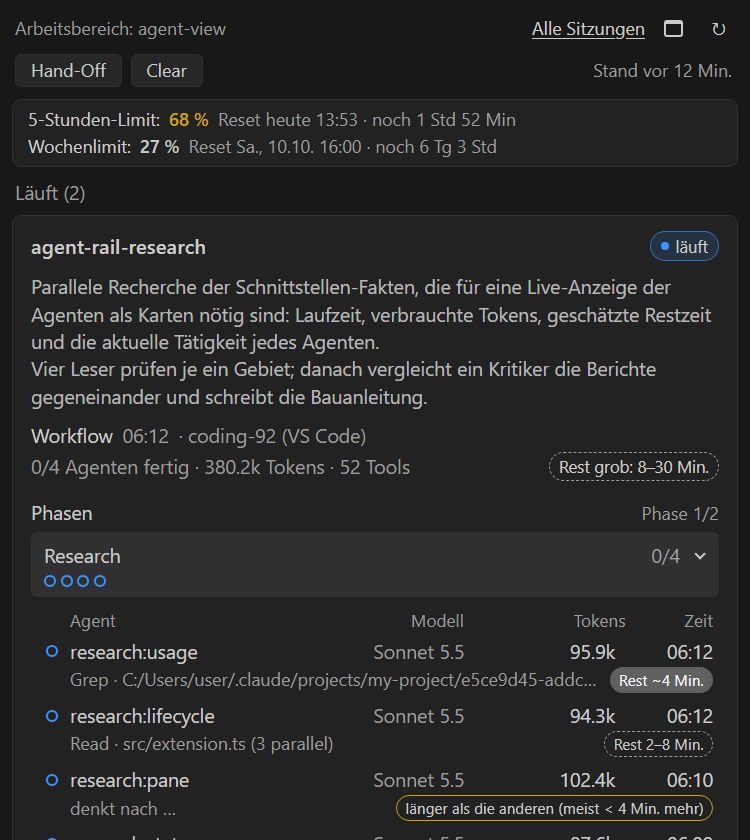
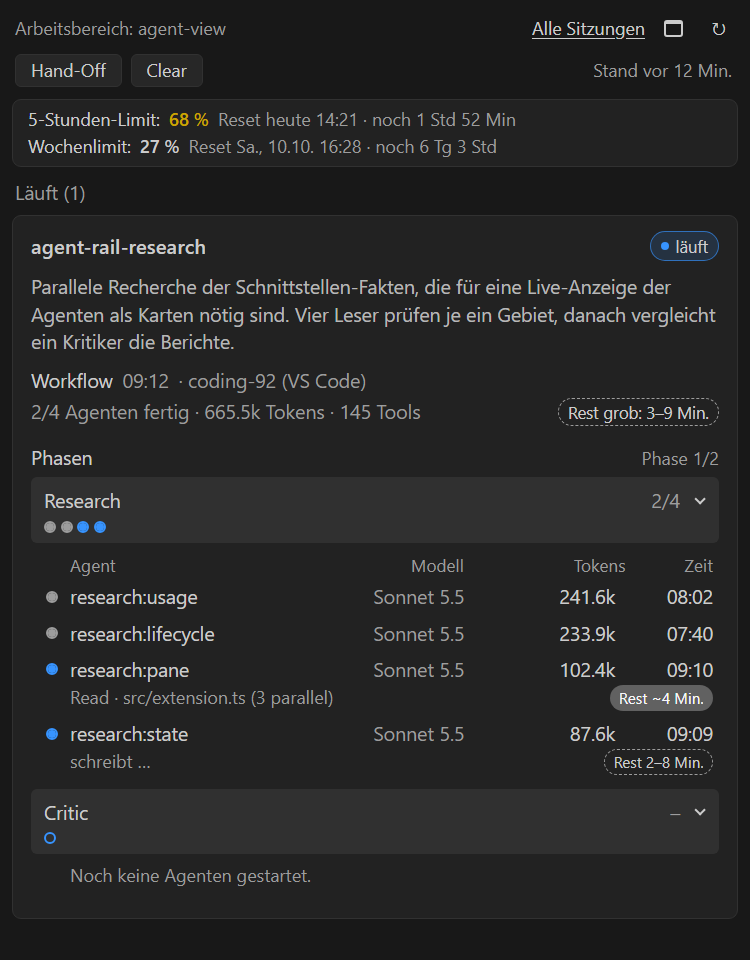
Unify status dots (done grey, running blue, not yet run hollow blue), new README screenshot

Changed region(s): [[0.0, 0.0, 0.9813, 1.0], [0.7053, 0.0, 0.9813, 0.0929]]

diff --git a/media/main.css b/media/main.css
@@ -2,7 +2,6 @@
    extra code. Unlayered rules beat VS Code's own webview defaults (they sit in @layer vscode-default). */
 :root {
   --av-accent: var(--vscode-charts-blue);
-  --av-ok: var(--vscode-charts-green);
   --av-err: var(--vscode-charts-red);
   --av-warn: var(--vscode-charts-yellow);
   --av-muted: var(--vscode-descriptionForeground);
@@ -192,7 +191,8 @@ button:focus-visible { outline: 1px solid var(--vscode-focusBorder); outline-off
 .pill::before { content: ""; flex: none; width: 0.5em; height: 0.5em; border-radius: 50%; background: var(--c); }
 .pill-run { --c: var(--av-accent); }
 .pill-wait { --c: var(--av-accent); }
-.pill-ok { --c: var(--av-ok); }
+.pill-ok { --c: var(--av-muted); }                  /* finished = grey, like the dots */
+.pill-mute::before { background: transparent; border: 1.5px solid var(--c); box-sizing: border-box; }   /* interrupted/stopped: hollow, like the dots */
 .pill-err { --c: var(--av-err); }
 .pill-warn { --c: var(--av-warn); }
 body.vscode-high-contrast .pill,
@@ -258,7 +258,9 @@ body.vscode-high-contrast-light .phase-head { border-color: var(--vscode-contras
 .dots:empty { display: none; }
 .phase-body { padding: 4px 0 2px 6px; }
 
-/* status dot: also the first column of every agent row (SPEC 5.3) */
+/* status dot: also the first column of every agent row (SPEC 5.3). One colour language for the rows and the phase header:
+   done = filled grey, running/waiting = filled blue (pulsing while it runs), not yet run = hollow blue,
+   failed = filled red, interrupted/stopped = hollow grey. */
 .dot {
   flex: none;
   width: 8px;
@@ -266,12 +268,12 @@ body.vscode-high-contrast-light .phase-head { border-color: var(--vscode-contras
   border-radius: 50%;
   border: 1.5px solid var(--av-muted);
   background: transparent;
+  background-clip: padding-box;   /* a translucent theme colour must not double up under the border */
 }
-.dot[data-s="done"] { border-color: var(--av-ok); background: var(--av-ok); }
-.dot[data-s="failed"] { border-color: var(--av-err); background: var(--av-err); }
-.dot[data-s="running"], .dot[data-s="waiting"] { border-color: var(--av-accent); }
-.dot[data-s="pending"] { border-style: dotted; opacity: 0.7; }
-.dots .dot[data-s="done"] { border-color: var(--av-accent); background: var(--av-accent); }
+.dot[data-s="done"] { border-color: var(--av-muted); background-color: var(--av-muted); }
+.dot[data-s="failed"] { border-color: var(--av-err); background-color: var(--av-err); }
+.dot[data-s="running"], .dot[data-s="waiting"] { border-color: var(--av-accent); background-color: var(--av-accent); }
+.dot[data-s="pending"] { border-color: var(--av-accent); }
 @media (prefers-reduced-motion: no-preference) {
   body:not(.vscode-reduce-motion) .dot[data-s="running"] { animation: av-pulse 1.6s ease-in-out infinite; }
 }

diff --git a/media/main.js b/media/main.js
@@ -137,6 +137,9 @@
 
   const KNOWN_STATES = ['running', 'waiting', 'done', 'failed', 'interrupted', 'stopped'];
   const dotState = (a) => (isObj(a) && KNOWN_STATES.includes(a.state) ? a.state : 'pending');
+  // Dots in a phase header: one per started agent. A phase without any agent has not run yet and gets one hollow "not yet run" dot
+  // (the planned number of agents is not recorded in the files, so a whole unstarted phase is the only place where this can be shown).
+  const phaseDotStates = (ph) => (isObj(ph) && arr(ph.agents).length ? arr(ph.agents).map(dotState) : ['pending']);
 
   const isQuiet = (a) => isLive(a.state) && num(a.quietSec) > QUIET_SEC;
 
@@ -657,9 +660,10 @@
       setText(p.count, ph.state === 'pending' ? T.dash : ph.done + '/' + ph.total);
       setAttr(p.head, 'aria-expanded', String(open));
       setAttr(p.head, 'aria-label', name + (ph.state === 'pending' ? '' : ', ' + ph.done + ' ' + T.of + ' ' + ph.total + ' ' + T.phaseDone + (ph.failed ? ', ' + ph.failed + ' ' + T.failedCount : '')));
-      while (p.dots.children.length < ph.agents.length) p.dots.append(h('span', 'dot'));
-      while (p.dots.children.length > ph.agents.length) p.dots.lastChild.remove();
-      ph.agents.forEach((a, i) => setAttr(p.dots.children[i], 'data-s', dotState(a)));
+      const dotStates = phaseDotStates(ph);
+      while (p.dots.children.length < dotStates.length) p.dots.append(h('span', 'dot'));
+      while (p.dots.children.length > dotStates.length) p.dots.lastChild.remove();
+      dotStates.forEach((s, i) => setAttr(p.dots.children[i], 'data-s', s));
       setHidden(p.body, !open);
       if (!open) return; // collapsed rows are brought up to date when the phase is opened (re-render on toggle)
       const keys = uniqueKeys(ph.agents.map((a) => a.id));
@@ -904,7 +908,7 @@
   if (typeof module !== 'undefined' && module.exports) {
     module.exports = {
       T, QUIET_SEC, fmtTokens, fmtDur, prettyModel, modelLabel, plural, clip, computeSkew, elapsedMs, elapsedText,
-      failureText, activityText, dotState, pillForAgent, pillForRun, runQuietSec, stateChip, etaView, phaseSummary,
+      failureText, activityText, dotState, phaseDotStates, pillForAgent, pillForRun, runQuietSec, stateChip, etaView, phaseSummary,
       phaseDefaultOpen, phaseNote, wfStatText, agentStatText, sessionText, uniqueKeys, lisIndices, planReconcile,
       normalizeState, normalizeUi, isOpen, setOpen, collectIds, pruneUi,
       USAGE_STALE_MS, normalizeUsage, usageLabel, fmtUntil, fmtClock, usageRowView, usageAge,

diff --git a/test/webview.test.js b/test/webview.test.js
@@ -332,6 +332,37 @@ test('phase summary, default expansion and dot states', () => {
   assert.equal(W.dotState(null), 'pending');
 });
 
+test('phase header dots: one per started agent, one hollow "not yet run" dot for a phase without agents', () => {
+  assert.deepEqual(W.phaseDotStates({ agents: [{ state: 'done' }, { state: 'running' }, { state: 'failed' }] }), ['done', 'running', 'failed']);
+  assert.deepEqual(W.phaseDotStates({ agents: [] }), ['pending']);
+  assert.deepEqual(W.phaseDotStates({}), ['pending']);
+  assert.deepEqual(W.phaseDotStates(null), ['pending']);
+  assert.match(JS, /dotStates\.forEach\(\(s, i\) => setAttr\(p\.dots\.children\[i\], 'data-s', s\)\)/);
+});
+
+test('status dots: done = filled grey, running = filled blue, not yet run = hollow blue, identical in the rows and in the phase header', () => {
+  const rule = (sel) => {
+    const m = CSS.match(new RegExp(sel.replace(/[.*+?^${}()|[\]\\]/g, '\\$&') + '\\s*\\{([^}]*)\\}'));
+    assert.ok(m, 'CSS rule ' + sel);
+    return m[1];
+  };
+  const done = rule('.dot[data-s="done"]');
+  assert.match(done, /border-color:\s*var\(--av-muted\)/);
+  assert.match(done, /background-color:\s*var\(--av-muted\)/);
+  const run = rule('.dot[data-s="running"], .dot[data-s="waiting"]');
+  assert.match(run, /border-color:\s*var\(--av-accent\)/);
+  assert.match(run, /background-color:\s*var\(--av-accent\)/);
+  const pending = rule('.dot[data-s="pending"]');
+  assert.match(pending, /border-color:\s*var\(--av-accent\)/);
+  assert.ok(!/background|dotted|opacity/.test(pending), 'hollow, solid and fully opaque');
+  assert.match(rule('.dot[data-s="failed"]'), /background-color:\s*var\(--av-err\)/);
+  assert.ok(!/\.dots\s+\.dot\[/.test(CSS), 'the phase header uses the same colours as the rows');
+  assert.match(rule('.dot'), /background-clip:\s*padding-box/, 'a translucent theme colour does not double up under the border');
+  assert.ok(!/--av-ok|charts-green/.test(CSS), 'no green for finished work');
+  assert.match(CSS, /\.pill-ok\s*\{\s*--c:\s*var\(--av-muted\)/);
+  assert.match(CSS, /\.pill-mute::before\s*\{[^}]*background:\s*transparent/);
+});
+
 test('stat lines: plural, running fraction, cached agents', () => {
   const wf = (o) => Object.assign({ status: 'completed', agentsTotal: 4, agentsDone: 4, tokens: 380234, toolUses: 52 }, o);
   assert.equal(W.wfStatText(wf()), '4 Agenten · 380.2k Tokens · 52 Tools');

diff --git a/tools/render-harness/gen-fixtures.js b/tools/render-harness/gen-fixtures.js
@@ -276,11 +276,30 @@ function manyCards() {
   return state({ running, recent, scope: 'all', scopeLabel: 'Alle Projekte' });
 }
 
+// ---- readme: the picture in README.md (one run with finished, running and not yet started parts) ---------------------------
+function readmeView() {
+  const w = workflow({
+    runId: 'wf_5281790c-ce8', name: 'agent-rail-research',
+    description: 'Parallele Recherche der Schnittstellen-Fakten, die für eine Live-Anzeige der Agenten als Karten nötig sind. Vier Leser prüfen je ein Gebiet, danach vergleicht ein Kritiker die Berichte.',
+    status: 'running', startedAt: NOW - (9 * MIN + 12 * SEC),
+    eta: eta('range', 'Rest grob: 3–9 Min.', 'Grobe Schätzung. Basis: restliche Zeit der aktuellen Phase plus 1 weitere Phase in typischer Länge.', 'siblings', 180, 360, 540),
+  }, [
+    phase('Research', 'Fakten zur Plugin-API sammeln', [
+      done('research:usage', 'Research', 8 * MIN + 2 * SEC, 70 * SEC, 241600, 61),
+      done('research:lifecycle', 'Research', 7 * MIN + 40 * SEC, 90 * SEC, 233900, 58),
+      live('research:pane', 'Research', 9 * MIN + 10 * SEC, 102400, 17, { kind: 'tool', tool: 'Read', target: 'src/extension.ts', running: true, parallel: 3 }, ETA.number),
+      live('research:state', 'Research', 9 * MIN + 9 * SEC, 87600, 9, { kind: 'writing', running: true }, ETA.range),
+    ]),
+    phase('Critic', null, []),
+  ]);
+  return state({ running: [w], usage: usage() });
+}
+
 // ---- empty ------------------------------------------------------------------------------------------------------
 const empty = () => state({});
 
 const FIXTURES = {
-  'wf-running': wfRunning, 'usage-states': usageStates, 'wf-done': wfDone, 'wf-killed': wfKilled, 'task-agents': taskAgents, 'failed-429': failed429, 'many-cards': manyCards, empty,
+  'wf-running': wfRunning, 'usage-states': usageStates, 'wf-done': wfDone, 'wf-killed': wfKilled, 'task-agents': taskAgents, 'failed-429': failed429, 'many-cards': manyCards, readme: readmeView, empty,
 };
 
 fs.mkdirSync(OUT, { recursive: true });

diff --git a/docs/ANLEITUNG.md b/docs/ANLEITUNG.md
@@ -11,8 +11,9 @@ Claude Code selbst bietet keine Schnittstelle, um Karten in seinen Chat einzubau
 - **Läuft**: jeder laufende Workflow als Karte mit Phasen (aufklappbar), den Agenten je Phase (Modell, Tokens, Zeit, Rest) und der aktuellen Tätigkeit (Werkzeug, Denken, Schreiben, Warten). Laufende Agenten ohne Workflow (Agent-Werkzeug) erscheinen als eigene Karte.
 - **Zuletzt fertig**: abgeschlossene, abgebrochene und fehlgeschlagene Läufe der letzten Stunden, einzeilig, per Klick aufklappbar.
 - **Status**: `läuft`, `fertig`, `Fehler`, `abgebrochen`, `gestoppt` (verwaist), `wartet` und `ruhig seit N Min.` (Hinweis, kein Beweis für einen Abbruch).
+- **Punkte** vor den Agenten, im Kopf jeder Phase und in der Status-Pille haben überall dieselbe Bedeutung: **grau ausgefüllt** = fertig, **blau ausgefüllt** = läuft (pulsiert, solange der Agent arbeitet), **blauer leerer Kreis** = noch nicht gelaufen, **rot** = fehlgeschlagen, **grauer leerer Kreis** = abgebrochen oder gestoppt. Einen leeren blauen Kreis bekommt eine Phase, in der noch kein Agent gestartet ist; wie viele Agenten eine Phase insgesamt bekommt, steht nirgends in den Dateien von Claude Code, deshalb gibt es keine Platzhalter für einzelne noch nicht gestartete Agenten.
 - **Nutzung**: 5-Stunden-Limit und Wochenlimit mit verbrauchten Prozent, Reset-Zeitpunkt und Restzeit bis zum Reset. Die Zahlen stammen aus dem Zwischenspeicher, den Claude Code selbst pflegt. Damit sie frisch sind, führt Claude Code Utilities selbst den Claude-Code-Befehl `/usage` aus: beim Öffnen der Ansicht, danach alle 5 Minuten, solange sie sichtbar ist (`agentView.usage.autoRefreshMinutes`), und sofort über den Aktualisieren-Knopf. Während das läuft, steht "wird aktualisiert …" neben den Zahlen; sonst nennt die Ansicht das Alter ("Stand vor 12 Min."). Ist die Reset-Zeit eines Fensters schon vorbei, steht dort "zurückgesetzt" statt einer veralteten Zahl.
-- **Beschreibung**: Die Beschreibung eines Workflows steht ungekürzt direkt unter dem Titel; auch lange Tätigkeitszeilen laufen über mehrere Zeilen, und der Tooltip zeigt jeweils den ganzen Text.
+- **Beschreibung**: Die Beschreibung eines Workflows steht ungekürzt direkt unter dem Titel; die Tätigkeit eines laufenden Agenten bleibt immer in einer Zeile (lange Texte enden mit „…“), der Tooltip zeigt den ganzen Text.
 - **Schwebendes Fenster**: der Knopf in der Titelleiste der Ansicht (zwei Fenster-Symbole) und in der Kopfzeile öffnet dieselben Karten samt Nutzung in einem eigenen kleinen Windows-Fenster ohne VS-Code-Rahmen, das du frei verschieben kannst und das vor VS Code im Vordergrund bleibt (nicht vor anderen Programmen).
 - **Hand-Off** (Knopf in der Ansicht und Symbol in der Titelleiste): schreibt einen Auszug der gewählten Sitzung in eine Markdown-Datei im Temp-Ordner (`%TEMP%\agent-view-handoff`), danach kannst du die Datei öffnen oder einen fertigen Prompt für die neue Sitzung kopieren. Es ist ein **mechanischer Auszug, keine Zusammenfassung durch Claude**: letzte Fragen, letzter Stand, offene Aufgabenliste, bearbeitete Dateien, letzte Befehle, Verlauf deiner Aufträge. Gibt es mehrere Sitzungen im Arbeitsbereich, wählst du eine aus (die zuletzt aktive steht oben).
 - **Clear** (Knopf in der Ansicht und Symbol in der Titelleiste): schreibt zuerst ein Hand-Off (ohne Hand-Off wird nichts gelöscht), öffnet dann über "Claude Code: Open in New Tab" eine neue Unterhaltung, in deren Eingabefeld der Prompt mit dem Pfad der Hand-Off-Datei schon steht (zusätzlich in der Zwischenablage), und schließt den alten Chat-Tab. Liegt der alte Chat in der Seitenleiste statt in einem Editor-Tab, bleibt er bestehen, da er sich nicht schließen lässt. Schlägt das Öffnen fehl, wird "New Conversation" benutzt. Die alte Unterhaltung bleibt in deren Verlauf erhalten. Das spart Tokens, weil der alte Kontext nicht mehr mitgeschickt wird. Für das Übernehmen von Wissen zuerst Hand-Off, dann Clear.
@@ -29,22 +30,22 @@ Claude Code selbst bietet keine Schnittstelle, um Karten in seinen Chat einzubau
 Die vier Befehle nacheinander im Hauptordner des Projekts ausführen, jeweils einzeln kopieren. Reihenfolge: bauen, Inhalt prüfen (erwartet: 0 CRC-Fehler und keine Namen mit Backslash), installieren, Installation prüfen.
 
 ```powershell
-node tools/build-vsix.js . dist/claude-code-usage-agent-view-0.9.3.vsix
+node tools/build-vsix.js . dist/claude-code-usage-agent-view-0.9.4.vsix
 ```
 
 ```powershell
-node tools/zip-list.js dist/claude-code-usage-agent-view-0.9.3.vsix
+node tools/zip-list.js dist/claude-code-usage-agent-view-0.9.4.vsix
 ```
 
 ```powershell
-code --install-extension dist/claude-code-usage-agent-view-0.9.3.vsix
+code --install-extension dist/claude-code-usage-agent-view-0.9.4.vsix
 ```
 
 ```powershell
 code --list-extensions --show-versions
 ```
 
-Die letzte Ausgabe der Liste sollte `local.claude-code-usage-agent-view@0.9.3` enthalten (die CLI gibt dabei eine harmlose DEP0169-Warnung aus). Danach in VS Code die Befehlspalette öffnen (Strg+Umschalt+P) und `Developer: Reload Window` ausführen. In der Aktivitätsleiste erscheint das Symbol "Claude Code Utilities", die Ansicht heißt "Agenten".
+Die letzte Ausgabe der Liste sollte `local.claude-code-usage-agent-view@0.9.4` enthalten (die CLI gibt dabei eine harmlose DEP0169-Warnung aus). Danach in VS Code die Befehlspalette öffnen (Strg+Umschalt+P) und `Developer: Reload Window` ausführen. In der Aktivitätsleiste erscheint das Symbol "Claude Code Utilities", die Ansicht heißt "Agenten".
 
 Gleiche Version erneut installieren ersetzt die vorhandene. Ein lokales Paket wird nicht automatisch aktualisiert: nach jeder Änderung `version` in `package.json` erhöhen, neu bauen und installieren (die README und die Tests verweisen auf den Dateinamen `claude-code-usage-agent-view-<Version>.vsix`).
 
@@ -69,7 +70,7 @@ Die sekundäre Seitenleiste lässt sich mit `View: Toggle Secondary Side Bar Vis
 Optional gibt es eine Paketvariante, die den Container von Anfang an in der sekundären Seitenleiste deklariert (benötigt VS Code ab 1.106; Bauen und Installieren sind geprüft, die Darstellung in einem echten Fenster noch nicht):
 
 ```powershell
-node tools/build-vsix.js . dist/claude-code-usage-agent-view-0.9.3-secondary.vsix --secondary
+node tools/build-vsix.js . dist/claude-code-usage-agent-view-0.9.4-secondary.vsix --secondary
 ```
 
 ## Befehle

diff --git a/docs/SPEC.md b/docs/SPEC.md
@@ -156,7 +156,7 @@ For workflow agents the journal is authoritative when present: `result` -> done,
 8. Caveat (cannot be fixed from files): after `resume` with an edited script the journal also holds dead slots of the earlier launch (wf_d5f00fed-f46: 15 slots vs 9 in the result file). While the run is live these show as extra done/failed/stopped agents; once the result file exists case 5.1 takes over.
 
 ### 5.3 Phase state and dots
-`pending` (no slot), `running` (any slot running), `done` (all slots done), `partial` (some failed/interrupted/stopped). One dot per slot ordered by start: done = filled accent, running = pulsing accent ring, failed = red, interrupted/stopped = hollow grey. No "ghost" dots (the Desktop screenshot's extra faint dot is not reproducible from files).
+`pending` (no slot), `running` (any slot running), `done` (all slots done), `partial` (some failed/interrupted/stopped). One dot per slot ordered by start; the colours are those of the v0.9.4 addendum (done = filled grey, running = filled blue, not yet run = hollow blue, failed = red, interrupted/stopped = hollow grey). A phase without any slot gets one hollow blue dot. No "ghost" dots for single unstarted agents (the Desktop screenshot's extra faint dot is not reproducible from files: the planned number of agents is not recorded).
 
 ### 5.4 Plain (Agent-tool) subagents
 `subagents/agent-<id>.jsonl` + `.meta.json {agentType, description, toolUseId, requestShape, model alias?}`. Card label = `description`; model from transcript (meta alias only as fallback); state per 4.5 (all 18 historical files classify `done`). Not linked to the main transcript (not needed).
@@ -476,3 +476,11 @@ Real-window behaviour of container, webview, variables and secondary side bar (f
 * **v0.8.0, eigenständiges Fenster statt VS-Code-Panel** (`lib/floatServer.js`, `lib/floatWindow.js`, `lib/floatTheme.js`; ersetzt `FloatingSurface`, `moveEditorToNewWindow` und die Einstellung `floating.front`): VS-Code-Fenster zeigen immer Titelzeile und Tab-Leiste und nehmen Dateien aus VS Code auf. Das schwebende Fenster ist jetzt Edge (sonst Chrome) im App-Modus (`--app=<URL> --user-data-dir=<Speicherordner>/float-profile --no-first-run --no-default-browser-check --window-size`), das dieselbe `media/main.js` aus einem lokalen Seitenserver lädt: `http.createServer` nur auf `127.0.0.1`, zufälliger Port, URL-Pfad mit 128-Bit-Kennwort, Host-Header auf `127.0.0.1:<port>`/`localhost:<port>` geprüft, `Origin` bei POST geprüft, Body höchstens 64 KB, nur `main.js`, `main.css`, `icon.svg`, `bridge.js`, `theme.css`, `events` (Server-Sent-Events, Host an Seite; das jeweils letzte `state` und `usageBusy` wird beim Verbinden nachgeliefert) und `msg` (POST, Seite an Host, dieselbe Nachrichtenliste wie die Ansicht); strenge CSP, kein CORS. `bridge.js` stellt `acquireVsCodeApi()` bereit (fetch/EventSource/localStorage), `theme.css` die `--vscode-*`-Variablen nach Theme-Art. Verknüpfung mit dem VS-Code-Fenster unverändert (`WindowLinker` mit `auxProc` = Browserprozess, `retries` 14; `snapshot` vor dem Start, danach `link` mit Besitzer, Größe und Platz, `watch` mit Rückruf beim Ende). Schließen: Wächter meldet das Ende des Fensters, `close()` beendet Server, Browserprozess und Wächter; ohne Verknüpfung gilt ein Fenster ohne verbundene Seite nach 45 s als geschlossen. Das alte Panel-Format wird nur noch über den Serializer sofort geschlossen.
 
 * **v0.9.0, Umbenennung**: der sichtbare Name ist jetzt "Claude Code Utilities" (Anzeigename, Titel der Aktivitätsleiste, Befehlstitel, Meldungen, Fenstertitel, Ausgabekanal). Die technischen Namen bleiben (Erweiterungs-ID `local.agent-view`, Einstellungen `agentView.*`, Befehls-IDs `agentView.*`, Ordner `agent-view`, Temp-Ordner `agent-view-handoff`), damit Einstellungen und Installation erhalten bleiben. Die älteren Abschnitte dieses Dokuments sprechen noch vom "Agent View".
+
+* **v0.9.1, Paketname wie das Repository**: `name` ist `claude-code-usage-agent-view`, die Erweiterungs-ID damit `local.claude-code-usage-agent-view` (die alte ID `local.agent-view` wird deinstalliert), die Datei `claude-code-usage-agent-view-<Version>.vsix`. Einstellungen und Befehle (`agentView.*`) bleiben.
+
+* **v0.9.2, Clear mit Hand-Off**: der Clear-Knopf schreibt zuerst ein Hand-Off (ohne Hand-Off geschieht nichts), öffnet dann mit `claude-vscode.editor.open(undefined, prompt, viewColumn)` eine neue Unterhaltung, deren Eingabefeld den Prompt mit dem Dateipfad schon enthält (nicht abgeschickt, zusätzlich in der Zwischenablage), und schließt danach den alten Chat-Tab (`tabGroups.close`, nur wenn der aktive Tab ein Claude-Code-Editor-Tab ist, Webview-Typ enthält `claudeVSCodePanel`). Fallback: `claude-vscode.newConversation`.
+
+* **v0.9.3, kompakte Ansicht**: Nutzung als zwei Textzeilen (Label, Prozent, `Reset <Tag> <Uhrzeit> · noch <Dauer>`), der "Stand" steht rechts neben Hand-Off/Clear; die Tätigkeit eines laufenden Agenten ist genau eine Zeile (Ellipse, voller Text als Tooltip), Chips bleiben in derselben Zeile (`.line2` ohne Umbruch); kein Hover-Hintergrund auf Agentenzeilen, laufende Karten haben außer der Tätigkeit keine Tooltips.
+
+* **v0.9.4, eindeutige Statuspunkte**: ein Farbschema für die Punkte vor den Agenten, im Phasenkopf und in der Status-Pille. Fertig = grau ausgefüllt (`--av-muted`), laufend/wartend = blau ausgefüllt (pulsiert nur beim laufenden Agenten), noch nicht gelaufen = leerer blauer Kreis (`pending`), fehlgeschlagen = rot ausgefüllt, abgebrochen/gestoppt = leerer grauer Kreis. Die Sonderregel "fertig = blau" im Phasenkopf entfällt, Grün (`--av-ok`) gibt es nicht mehr; `.pill-ok` ist grau, `.pill-mute` hat einen hohlen Punkt. Eine Phase ohne Agenten zeigt einen leeren blauen Kreis (`phaseDotStates`). `background-clip: padding-box`, damit eine durchscheinende Theme-Farbe unter dem Rand nicht doppelt deckt.

diff --git a/README.md b/README.md
@@ -8,7 +8,7 @@ VS-Code-Erweiterung für Claude Code: laufende Agenten und Workflows als Karten,
 
 ## Was es kann
 
-- **Agenten-Karten:** Status, Modell, Tokens, Laufzeit, Phasen, aktuelle Tätigkeit und eine grobe Restzeit je Workflow und Agent.
+- **Agenten-Karten:** Status, Modell, Tokens, Laufzeit, Phasen, aktuelle Tätigkeit und eine grobe Restzeit je Workflow und Agent. Die Punkte zeigen den Zustand: grau = fertig, blau = läuft, leerer blauer Kreis = noch nicht gelaufen.
 - **Nutzung:** 5-Stunden- und Wochenlimit in zwei Zeilen: Prozent, Reset-Zeit und Restzeit. Die Erweiterung führt dafür selbst `/usage` aus.
 - **Kleines Fenster:** dieselben Karten in einem eigenen Windows-Fenster, das vor VS Code liegt und mit VS Code schließt.
 - **Hand-Off:** schreibt den Kontext einer Sitzung in eine Markdown-Datei. Dazu der Befehl `/handoff`, bei dem Claude die Übergabe selbst schreibt.
@@ -21,7 +21,7 @@ Voraussetzungen: VS Code 1.94 oder neuer und die Claude-Code-Erweiterung. Das kl
 **Fertiges Paket:** die Datei `claude-code-usage-agent-view-<Version>.vsix` aus den [Releases](https://github.com/JanDerCoder1/claude-code-usage-agent-view/releases) laden und installieren:
 
 ```powershell
-code --install-extension claude-code-usage-agent-view-0.9.3.vsix
+code --install-extension claude-code-usage-agent-view-0.9.4.vsix
 ```
 
 **Selbst bauen** (Node.js 14 oder neuer), die vier Befehle nacheinander:
@@ -35,11 +35,11 @@ cd claude-code-usage-agent-view
 ```
 
 ```powershell
-node tools/build-vsix.js . dist/claude-code-usage-agent-view-0.9.3.vsix
+node tools/build-vsix.js . dist/claude-code-usage-agent-view-0.9.4.vsix
 ```
 
 ```powershell
-code --install-extension dist/claude-code-usage-agent-view-0.9.3.vsix
+code --install-extension dist/claude-code-usage-agent-view-0.9.4.vsix
 ```
 
 Danach VS Code neu starten. Das Symbol **Claude Code Utilities** erscheint in der Aktivitätsleiste.
